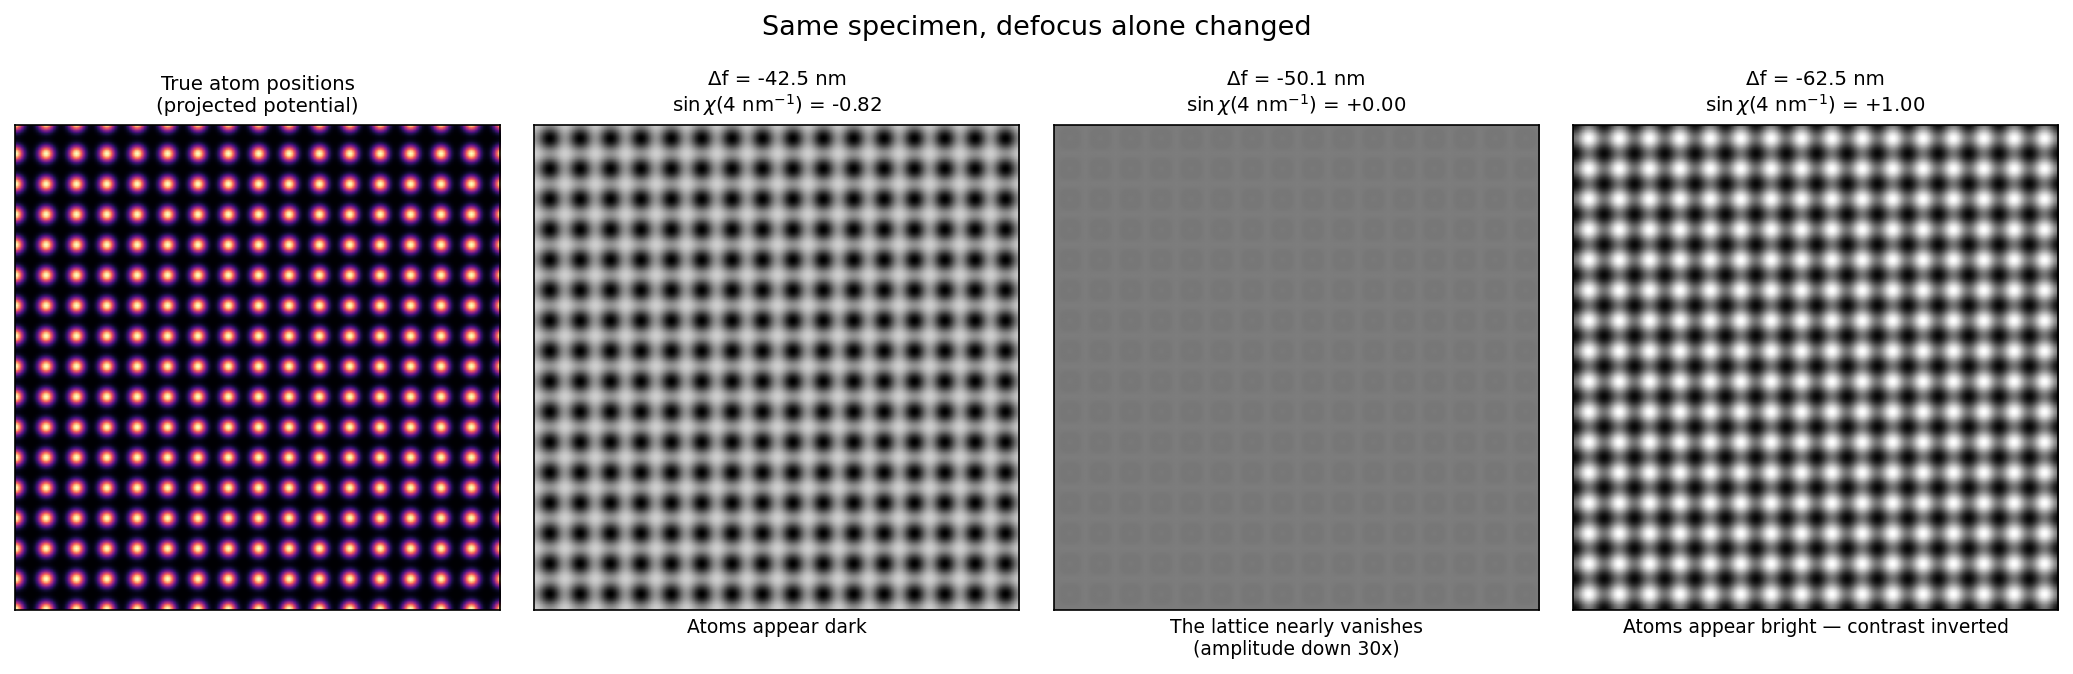
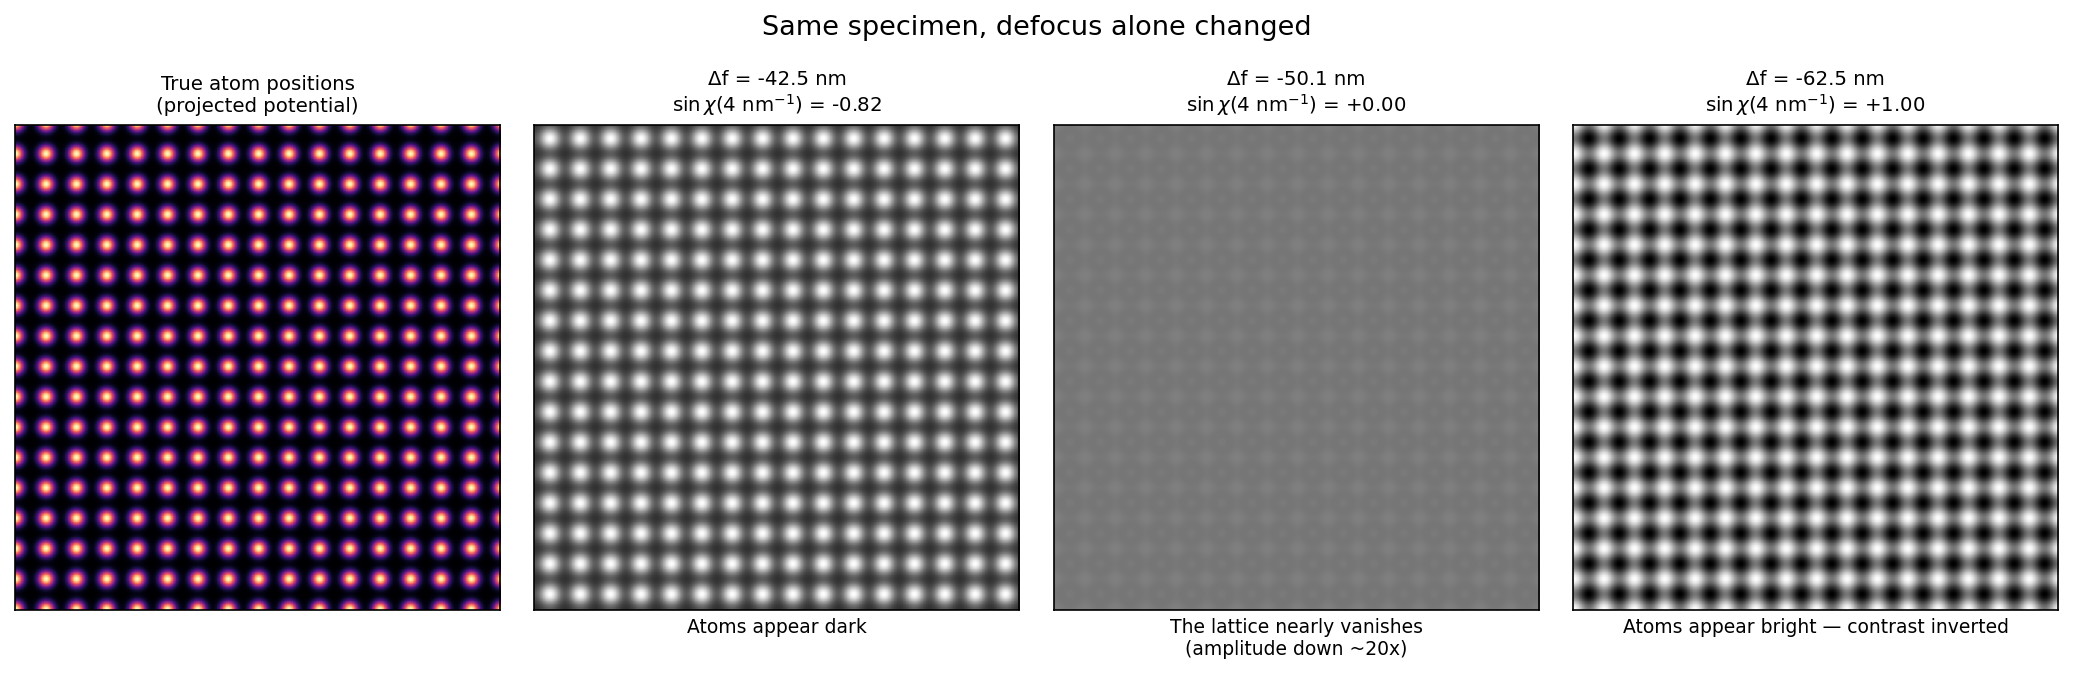
fix(post): electron-microscopy-tem-phase-contrast-ctf — 그림3 전달 함수 부호 등 7건 정정
1. 그림3·코드 발췌: 전달 함수가 exp(+iχ)여서 원자 명암이 라벨과 반대였다(셰르처에서 원자 자리 1.139로 밝음,
   −62.5 nm에서 0.805로 어두움). 물체 exp(+iσV)에 맞는 exp(−iχ)로 고쳤다. 코드 docstring 자신도 exp(−iχ)였다.
   근거: 1차 원리, Kirkland computem(image.cpp), Kirkland Acta Cryst. A72 (2016) Fig.3·4. 메인 세션의
   원자 하나 계산에서도 exp(+iχ) 1.330(밝음), exp(−iχ) 0.715(어두움). FFT 부호 규약을 이유로 든 주석은
   틀렸다(χ가 짝함수). 수정 후 원자 자리는 셰르처 0.882, −62.5 nm 1.216으로 라벨과 맞다.
2. "진폭이 30분의 1"은 틀린 부호의 상에서 나온 값이었다. 고친 코드로 1/20.3, "20분의 1 남짓"으로.
3. (한국어판) 셰르처 정리가 금지한 것은 음의 수차다(Rose 2005; 시리즈 2편 L81).
4. Williams & Carter 장 번호 ch.27–31 → ch.23, 28, 30.
5. 0.192와 0.197 nm 차이는 디포커스 계수 차이(√(4/3)≈1.15 대 1.2)에서 온다(첫 영점 해석식).
6. Cs=0이어도 디포커스 항이 남는다. χ=0이 되려면 초점까지 맞아야 한다(Kirkland 2016, Tanaka 2008).
7. HAADF 대비는 원자번호에 정비례하지 않고 Z^1.6~2에 비례한다(Hartel 외 1996; 시리즈 7편과 일치).

바뀐 그림: fig3-lattice-images.png (한·영). 독립 검증자 3명.
근거: _references/electron-microscopy-tem-phase-contrast-ctf/factcheck-20261004.md

Changed region(s): [[0.741, 0.1869, 1.0, 0.9036], [0.247, 0.1869, 0.494, 0.9036], [0.5557, 0.9347, 0.6792, 0.997]]

diff --git a/_code/electron-microscopy-tem-phase-contrast-ctf/generate_figures.py b/_code/electron-microscopy-tem-phase-contrast-ctf/generate_figures.py
@@ -84,7 +84,7 @@ def envelope_spatial(k, df, alpha=CONVERGENCE, cs=CS, lam=LAM):
 
 
 def ctf(k, df, damped=True):
-    """대비 전달 함수 sin(chi). 약위상물체의 대비는 -2 sin(chi) 에 비례한다."""
+    """대비 전달 함수 sin(chi). 약위상물체의 대비는 2 sin(chi) 에 비례한다."""
     t = np.sin(chi(k, df))
     if damped:
         t = t * envelope_temporal(k) * envelope_spatial(k, df)
@@ -133,10 +133,9 @@ def simulate_lattice_image(df, n=320, field=4.0, sigma_v=0.30, atom_sigma=0.045)
     kxx, kyy = np.meshgrid(kx, kx)
     kr = np.sqrt(kxx**2 + kyy**2)
 
-    # numpy 의 정방향 FFT 는 exp(-2 pi i k x) 를 쓰는데, TEM 교재의 광학 관례는
-    # 부호가 반대다. 그래서 전달 함수에 exp(+i chi) 를 곱해야 약위상물체의
-    # 예측(Scherzer 디포커스에서 원자가 어둡게 나온다)과 맞는다.
-    transfer = np.exp(1j * chi(kr, df)) * envelope_temporal(kr) \
+    # 물체가 exp(+i sigma V)이므로 전달 함수는 exp(-i chi)다. chi 는 k 의
+    # 짝함수라 FFT 부호 규약과 무관하다.
+    transfer = np.exp(-1j * chi(kr, df)) * envelope_temporal(kr) \
         * envelope_spatial(kr, df)
     img = np.abs(np.fft.ifft2(np.fft.fft2(psi) * transfer)) ** 2
     return x, v, img
@@ -161,7 +160,7 @@ LABELS = {
         "fig3": "같은 시편, 디포커스만 바꾼 상",
         "f3obj": "실제 원자 위치\n(투영 퍼텐셜)",
         "f3panel": "Δf = {:.1f} nm\n$\\sin χ$({:.0f} nm$^{{-1}}$) = {:+.2f}",
-        "f3dark": "원자가 어둡다", "f3none": "격자가 거의 사라진다\n(진폭이 30분의 1)",
+        "f3dark": "원자가 어둡다", "f3none": "격자가 거의 사라진다\n(진폭이 약 20분의 1)",
         "f3bright": "원자가 밝다 — 대비가 뒤집혔다",
     },
     "en": {
@@ -182,7 +181,7 @@ LABELS = {
         "fig3": "Same specimen, defocus alone changed",
         "f3obj": "True atom positions\n(projected potential)",
         "f3panel": "Δf = {:.1f} nm\n$\\sin χ$({:.0f} nm$^{{-1}}$) = {:+.2f}",
-        "f3dark": "Atoms appear dark", "f3none": "The lattice nearly vanishes\n(amplitude down 30x)",
+        "f3dark": "Atoms appear dark", "f3none": "The lattice nearly vanishes\n(amplitude down ~20x)",
         "f3bright": "Atoms appear bright — contrast inverted",
     },
 }
@@ -268,7 +267,7 @@ def fig3_lattice_images(L):
     axes[0].set_title(L["f3obj"], fontsize=9.5, **L["font"])
 
     # 세 상을 같은 명암 범위로 그린다. 패널마다 따로 정규화하면 대비가 거의
-    # 사라진 상까지 끝까지 늘어나, 실제로는 30 분의 1 인 진폭이 똑같아 보인다.
+    # 사라진 상까지 끝까지 늘어나, 실제로는 20 분의 1 남짓인 진폭이 똑같아 보인다.
     imgs = [simulate_lattice_image(df)[2] for df, _ in cases]
     lo = min(im.min() for im in imgs)
     hi = max(im.max() for im in imgs)

diff --git a/_posts/2026-11-01-electron-microscopy-tem-phase-contrast-ctf-en.md b/_posts/2026-11-01-electron-microscopy-tem-phase-contrast-ctf-en.md
@@ -76,7 +76,7 @@ Substituting the $C_s = 0.5$ mm and $\lambda = 2.51$ pm of post 2 gives $-42.5$ 
 
 $$ \frac{1}{5.2\ \mathrm{nm^{-1}}} = 0.192\ \mathrm{nm} $$
 
-Post 2 obtained 0.197 nm from the Scherzer formula $0.66(C_s\lambda^3)^{1/4}$. The two differ by about 2 %, since the formula approximates where the passband ends, but they are the same quantity computed two ways. The 0.2 nm quoted in post 1 for uncorrected HRTEM is ultimately this number.
+Post 2 obtained 0.197 nm from the Scherzer formula $0.66(C_s\lambda^3)^{1/4}$. The 0.66 coefficient is the first zero for a defocus of $-\sqrt{4/3}\,\sqrt{C_s\lambda} \approx -1.15\sqrt{C_s\lambda}$; with the $-1.2$ used here it becomes 0.646, hence the difference of about 2 %, but they are the same quantity computed two ways. The 0.2 nm quoted in post 1 for uncorrected HRTEM is ultimately this number.
 
 ## 4. Damping envelopes and the information limit
 
@@ -106,7 +106,7 @@ A phase object was built by placing Gaussian projected potentials on a square la
 ```python
 # core of generate_figures.py (full code: _code/electron-microscopy-tem-phase-contrast-ctf/)
 psi = np.exp(1j * v)                       # phase object: it alters only phase
-transfer = np.exp(1j * chi(kr, df)) * envelope_temporal(kr) \
+transfer = np.exp(-1j * chi(kr, df)) * envelope_temporal(kr) \
     * envelope_spatial(kr, df)
 img = np.abs(np.fft.ifft2(np.fft.fft2(psi) * transfer)) ** 2
 ```
@@ -118,7 +118,7 @@ Leftmost is the truth — the projected potential, showing where the atoms are. 
 
 At the Scherzer defocus of $-42.5$ nm, $\sin\chi = -0.82$ at the lattice frequency of 4 nm$^{-1}$, and the atom sites appear **dark**, exactly the sign the weak phase object approximation predicts.
 
-At $-50.1$ nm, $\sin\chi$ passes through zero. The lattice pattern effectively disappears, its amplitude falling by a factor of thirty. The specimen is unchanged, yet the lattice is gone from the image.
+At $-50.1$ nm, $\sin\chi$ passes through zero. The lattice pattern effectively disappears, its amplitude falling by a factor of about twenty. The specimen is unchanged, yet the lattice is gone from the image.
 
 At $-62.5$ nm, $\sin\chi$ reaches $+1$ and the atom sites appear **bright**. The contrast has inverted completely.
 
@@ -132,7 +132,7 @@ What happens to the CTF when $C_s$ shrinks?
 
 Post 2 noted that correctors bring $C_s$ down to the micrometre range. The $k^4$ term of $\chi$ shrinks accordingly, widening the passband and improving the point resolution. Push the first zero past the information limit and point resolution and information limit coincide, at which moment the ambiguous shaded band disappears. The range that can be read by eye extends all the way to the information limit.
 
-Something interesting follows. Drive $C_s$ to zero and $\chi$ approaches zero too, returning to the problem of section 1: phase contrast vanishes. Corrected instruments therefore sometimes tune $C_s$ to a small negative value and work at overfocus. Atoms then appear bright against a dark background, which is often easier to interpret. This is negative $C_s$ imaging.
+Something interesting follows. Drive $C_s$ to zero and bring the image exactly into focus, and $\chi$ vanishes, returning to the problem of section 1: phase contrast vanishes. Corrected instruments therefore sometimes tune $C_s$ to a small negative value and work at overfocus. Atoms then appear bright against a dark background, which is often easier to interpret. This is negative $C_s$ imaging.
 
 The goal has shifted from eliminating aberration to leaving exactly as much as wanted, with the sign chosen deliberately. Scherzer's theorem in post 2 forbade negative aberration in a rotationally symmetric lens; once correctors circumvented that prohibition, aberration became a design variable.
 
@@ -144,11 +144,11 @@ The defocus and spherical aberration terms of $\chi$ can oppose one another. At 
 
 Figure 3 carries the central conclusion. Photograph one specimen at three focus settings and the atoms come out dark, invisible, or bright. A high-resolution image is not a photograph of an atomic arrangement but the output of a transfer function, and interpreting it requires knowing the conditions that produced it.
 
-The next post closes the series. Illumination has been a broad beam until now; post 7 converges it back to a point and scans. It covers why reciprocity holds in scanning transmission electron microscopy, and how a high-angle annular dark field detector produces contrast proportional to atomic number, free of the sign-reversal problem met here. EDS and EELS for reading composition follow, along with 4D-STEM, which stores whole diffraction patterns and recovers phase by computation, and finally FIB specimen preparation and semiconductor metrology applications.
+The next post closes the series. Illumination has been a broad beam until now; post 7 converges it back to a point and scans. It covers why reciprocity holds in scanning transmission electron microscopy, and how a high-angle annular dark field detector produces contrast scaling as roughly the 1.6th to 2nd power of atomic number, free of the sign-reversal problem met here. EDS and EELS for reading composition follow, along with 4D-STEM, which stores whole diffraction patterns and recovers phase by computation, and finally FIB specimen preparation and semiconductor metrology applications.
 
 ## References
 
-- D. B. Williams and C. B. Carter, *Transmission Electron Microscopy: A Textbook for Materials Science*, 2nd ed., Springer, 2009, ch. 27–31 (phase contrast, the CTF, image simulation).
+- D. B. Williams and C. B. Carter, *Transmission Electron Microscopy: A Textbook for Materials Science*, 2nd ed., Springer, 2009, ch. 23, 28, 30 (phase contrast, the CTF, image simulation).
 - J. C. H. Spence, *High-Resolution Electron Microscopy*, 4th ed., Oxford University Press, 2013 (standard treatment of the weak phase object approximation and transfer theory).
 - O. Scherzer, "The theoretical resolution limit of the electron microscope," *Journal of Applied Physics*, vol. 20, pp. 20–29, 1949 (derivation of the optimum defocus).
 - C. L. Jia, M. Lentzen, and K. Urban, "Atomic-resolution imaging of oxygen in perovskite ceramics," *Science*, vol. 299, pp. 870–873, 2003 (negative $C_s$ imaging).
